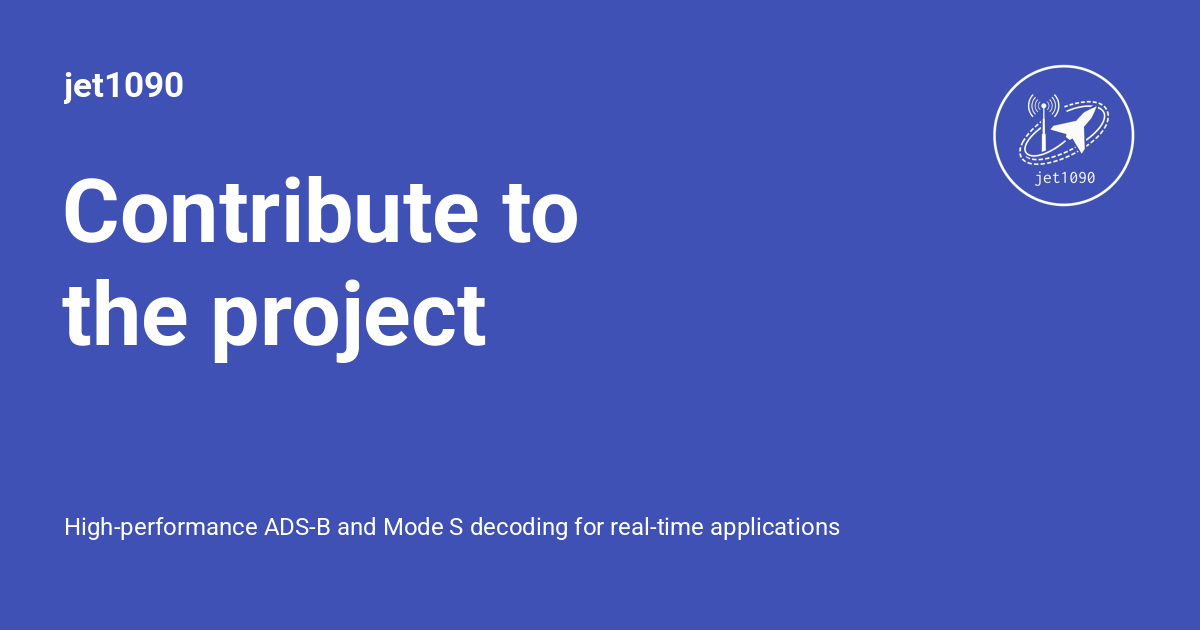
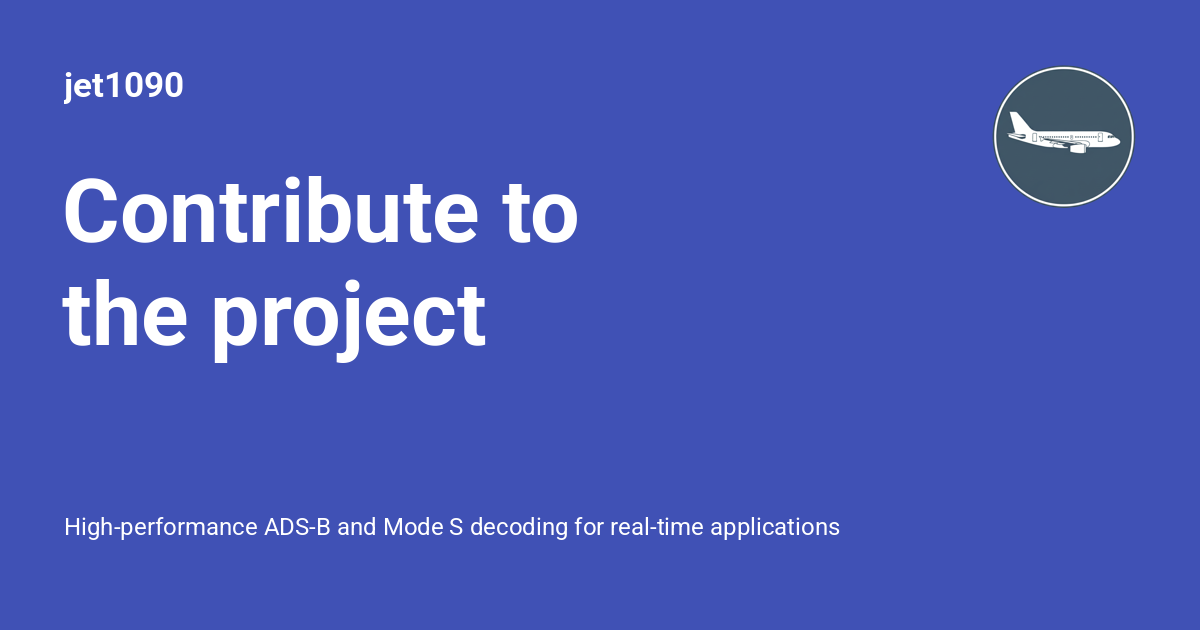
deploy: xoolive/jet1090@266443bfc49e63d0f7d9e73ddb97117b694de0b1

Changed region(s): [[0.8017, 0.0905, 0.9558, 0.3317]]

diff --git a/404.html b/404.html
@@ -85,7 +85,7 @@
   <nav class="md-header__inner md-grid" aria-label="Header">
     <a href="/jet1090/." title="jet1090" class="md-header__button md-logo" aria-label="jet1090" data-md-component="logo">
       
-  <img src="/jet1090/images/jet1090-logo.png" alt="logo">
+  <img src="/jet1090/images/favicon.png" alt="logo">
 
     </a>
     <label class="md-header__button md-icon" for="__drawer">
@@ -200,7 +200,7 @@
     <svg xmlns="http://www.w3.org/2000/svg" viewBox="0 0 512 512"><!--! Font Awesome Free 7.1.0 by @fontawesome - https://fontawesome.com License - https://fontawesome.com/license/free (Icons: CC BY 4.0, Fonts: SIL OFL 1.1, Code: MIT License) Copyright 2025 Fonticons, Inc.--><path d="M173.9 397.4c0 2-2.3 3.6-5.2 3.6-3.3.3-5.6-1.3-5.6-3.6 0-2 2.3-3.6 5.2-3.6 3-.3 5.6 1.3 5.6 3.6m-31.1-4.5c-.7 2 1.3 4.3 4.3 4.9 2.6 1 5.6 0 6.2-2s-1.3-4.3-4.3-5.2c-2.6-.7-5.5.3-6.2 2.3m44.2-1.7c-2.9.7-4.9 2.6-4.6 4.9.3 2 2.9 3.3 5.9 2.6 2.9-.7 4.9-2.6 4.6-4.6-.3-1.9-3-3.2-5.9-2.9M252.8 8C114.1 8 8 113.3 8 252c0 110.9 69.8 205.8 169.5 239.2 12.8 2.3 17.3-5.6 17.3-12.1 0-6.2-.3-40.4-.3-61.4 0 0-70 15-84.7-29.8 0 0-11.4-29.1-27.8-36.6 0 0-22.9-15.7 1.6-15.4 0 0 24.9 2 38.6 25.8 21.9 38.6 58.6 27.5 72.9 20.9 2.3-16 8.8-27.1 16-33.7-55.9-6.2-112.3-14.3-112.3-110.5 0-27.5 7.6-41.3 23.6-58.9-2.6-6.5-11.1-33.3 2.6-67.9 20.9-6.5 69 27 69 27 20-5.6 41.5-8.5 62.8-8.5s42.8 2.9 62.8 8.5c0 0 48.1-33.6 69-27 13.7 34.7 5.2 61.4 2.6 67.9 16 17.7 25.8 31.5 25.8 58.9 0 96.5-58.9 104.2-114.8 110.5 9.2 7.9 17 22.9 17 46.4 0 33.7-.3 75.4-.3 83.6 0 6.5 4.6 14.4 17.3 12.1C436.2 457.8 504 362.9 504 252 504 113.3 391.5 8 252.8 8M105.2 352.9c-1.3 1-1 3.3.7 5.2 1.6 1.6 3.9 2.3 5.2 1 1.3-1 1-3.3-.7-5.2-1.6-1.6-3.9-2.3-5.2-1m-10.8-8.1c-.7 1.3.3 2.9 2.3 3.9 1.6 1 3.6.7 4.3-.7.7-1.3-.3-2.9-2.3-3.9-2-.6-3.6-.3-4.3.7m32.4 35.6c-1.6 1.3-1 4.3 1.3 6.2 2.3 2.3 5.2 2.6 6.5 1 1.3-1.3.7-4.3-1.3-6.2-2.2-2.3-5.2-2.6-6.5-1m-11.4-14.7c-1.6 1-1.6 3.6 0 5.9s4.3 3.3 5.6 2.3c1.6-1.3 1.6-3.9 0-6.2-1.4-2.3-4-3.3-5.6-2"/></svg>
   </div>
   <div class="md-source__repository">
-    xoolive/rs1090
+    xoolive/jet1090
   </div>
 </a>
       </div>
@@ -357,7 +357,7 @@
   <label class="md-nav__title" for="__drawer">
     <a href="/jet1090/." title="jet1090" class="md-nav__button md-logo" aria-label="jet1090" data-md-component="logo">
       
-  <img src="/jet1090/images/jet1090-logo.png" alt="logo">
+  <img src="/jet1090/images/favicon.png" alt="logo">
 
     </a>
     jet1090
@@ -370,7 +370,7 @@
     <svg xmlns="http://www.w3.org/2000/svg" viewBox="0 0 512 512"><!--! Font Awesome Free 7.1.0 by @fontawesome - https://fontawesome.com License - https://fontawesome.com/license/free (Icons: CC BY 4.0, Fonts: SIL OFL 1.1, Code: MIT License) Copyright 2025 Fonticons, Inc.--><path d="M173.9 397.4c0 2-2.3 3.6-5.2 3.6-3.3.3-5.6-1.3-5.6-3.6 0-2 2.3-3.6 5.2-3.6 3-.3 5.6 1.3 5.6 3.6m-31.1-4.5c-.7 2 1.3 4.3 4.3 4.9 2.6 1 5.6 0 6.2-2s-1.3-4.3-4.3-5.2c-2.6-.7-5.5.3-6.2 2.3m44.2-1.7c-2.9.7-4.9 2.6-4.6 4.9.3 2 2.9 3.3 5.9 2.6 2.9-.7 4.9-2.6 4.6-4.6-.3-1.9-3-3.2-5.9-2.9M252.8 8C114.1 8 8 113.3 8 252c0 110.9 69.8 205.8 169.5 239.2 12.8 2.3 17.3-5.6 17.3-12.1 0-6.2-.3-40.4-.3-61.4 0 0-70 15-84.7-29.8 0 0-11.4-29.1-27.8-36.6 0 0-22.9-15.7 1.6-15.4 0 0 24.9 2 38.6 25.8 21.9 38.6 58.6 27.5 72.9 20.9 2.3-16 8.8-27.1 16-33.7-55.9-6.2-112.3-14.3-112.3-110.5 0-27.5 7.6-41.3 23.6-58.9-2.6-6.5-11.1-33.3 2.6-67.9 20.9-6.5 69 27 69 27 20-5.6 41.5-8.5 62.8-8.5s42.8 2.9 62.8 8.5c0 0 48.1-33.6 69-27 13.7 34.7 5.2 61.4 2.6 67.9 16 17.7 25.8 31.5 25.8 58.9 0 96.5-58.9 104.2-114.8 110.5 9.2 7.9 17 22.9 17 46.4 0 33.7-.3 75.4-.3 83.6 0 6.5 4.6 14.4 17.3 12.1C436.2 457.8 504 362.9 504 252 504 113.3 391.5 8 252.8 8M105.2 352.9c-1.3 1-1 3.3.7 5.2 1.6 1.6 3.9 2.3 5.2 1 1.3-1 1-3.3-.7-5.2-1.6-1.6-3.9-2.3-5.2-1m-10.8-8.1c-.7 1.3.3 2.9 2.3 3.9 1.6 1 3.6.7 4.3-.7.7-1.3-.3-2.9-2.3-3.9-2-.6-3.6-.3-4.3.7m32.4 35.6c-1.6 1.3-1 4.3 1.3 6.2 2.3 2.3 5.2 2.6 6.5 1 1.3-1.3.7-4.3-1.3-6.2-2.2-2.3-5.2-2.6-6.5-1m-11.4-14.7c-1.6 1-1.6 3.6 0 5.9s4.3 3.3 5.6 2.3c1.6-1.3 1.6-3.9 0-6.2-1.4-2.3-4-3.3-5.6-2"/></svg>
   </div>
   <div class="md-source__repository">
-    xoolive/rs1090
+    xoolive/jet1090
   </div>
 </a>
     </div>

diff --git a/config/index.html b/config/index.html
@@ -109,7 +109,7 @@
   <nav class="md-header__inner md-grid" aria-label="Header">
     <a href=".." title="jet1090" class="md-header__button md-logo" aria-label="jet1090" data-md-component="logo">
       
-  <img src="../images/jet1090-logo.png" alt="logo">
+  <img src="../images/favicon.png" alt="logo">
 
     </a>
     <label class="md-header__button md-icon" for="__drawer">
@@ -224,7 +224,7 @@
     <svg xmlns="http://www.w3.org/2000/svg" viewBox="0 0 512 512"><!--! Font Awesome Free 7.1.0 by @fontawesome - https://fontawesome.com License - https://fontawesome.com/license/free (Icons: CC BY 4.0, Fonts: SIL OFL 1.1, Code: MIT License) Copyright 2025 Fonticons, Inc.--><path d="M173.9 397.4c0 2-2.3 3.6-5.2 3.6-3.3.3-5.6-1.3-5.6-3.6 0-2 2.3-3.6 5.2-3.6 3-.3 5.6 1.3 5.6 3.6m-31.1-4.5c-.7 2 1.3 4.3 4.3 4.9 2.6 1 5.6 0 6.2-2s-1.3-4.3-4.3-5.2c-2.6-.7-5.5.3-6.2 2.3m44.2-1.7c-2.9.7-4.9 2.6-4.6 4.9.3 2 2.9 3.3 5.9 2.6 2.9-.7 4.9-2.6 4.6-4.6-.3-1.9-3-3.2-5.9-2.9M252.8 8C114.1 8 8 113.3 8 252c0 110.9 69.8 205.8 169.5 239.2 12.8 2.3 17.3-5.6 17.3-12.1 0-6.2-.3-40.4-.3-61.4 0 0-70 15-84.7-29.8 0 0-11.4-29.1-27.8-36.6 0 0-22.9-15.7 1.6-15.4 0 0 24.9 2 38.6 25.8 21.9 38.6 58.6 27.5 72.9 20.9 2.3-16 8.8-27.1 16-33.7-55.9-6.2-112.3-14.3-112.3-110.5 0-27.5 7.6-41.3 23.6-58.9-2.6-6.5-11.1-33.3 2.6-67.9 20.9-6.5 69 27 69 27 20-5.6 41.5-8.5 62.8-8.5s42.8 2.9 62.8 8.5c0 0 48.1-33.6 69-27 13.7 34.7 5.2 61.4 2.6 67.9 16 17.7 25.8 31.5 25.8 58.9 0 96.5-58.9 104.2-114.8 110.5 9.2 7.9 17 22.9 17 46.4 0 33.7-.3 75.4-.3 83.6 0 6.5 4.6 14.4 17.3 12.1C436.2 457.8 504 362.9 504 252 504 113.3 391.5 8 252.8 8M105.2 352.9c-1.3 1-1 3.3.7 5.2 1.6 1.6 3.9 2.3 5.2 1 1.3-1 1-3.3-.7-5.2-1.6-1.6-3.9-2.3-5.2-1m-10.8-8.1c-.7 1.3.3 2.9 2.3 3.9 1.6 1 3.6.7 4.3-.7.7-1.3-.3-2.9-2.3-3.9-2-.6-3.6-.3-4.3.7m32.4 35.6c-1.6 1.3-1 4.3 1.3 6.2 2.3 2.3 5.2 2.6 6.5 1 1.3-1.3.7-4.3-1.3-6.2-2.2-2.3-5.2-2.6-6.5-1m-11.4-14.7c-1.6 1-1.6 3.6 0 5.9s4.3 3.3 5.6 2.3c1.6-1.3 1.6-3.9 0-6.2-1.4-2.3-4-3.3-5.6-2"/></svg>
   </div>
   <div class="md-source__repository">
-    xoolive/rs1090
+    xoolive/jet1090
   </div>
 </a>
       </div>
@@ -383,7 +383,7 @@
   <label class="md-nav__title" for="__drawer">
     <a href=".." title="jet1090" class="md-nav__button md-logo" aria-label="jet1090" data-md-component="logo">
       
-  <img src="../images/jet1090-logo.png" alt="logo">
+  <img src="../images/favicon.png" alt="logo">
 
     </a>
     jet1090
@@ -396,7 +396,7 @@
     <svg xmlns="http://www.w3.org/2000/svg" viewBox="0 0 512 512"><!--! Font Awesome Free 7.1.0 by @fontawesome - https://fontawesome.com License - https://fontawesome.com/license/free (Icons: CC BY 4.0, Fonts: SIL OFL 1.1, Code: MIT License) Copyright 2025 Fonticons, Inc.--><path d="M173.9 397.4c0 2-2.3 3.6-5.2 3.6-3.3.3-5.6-1.3-5.6-3.6 0-2 2.3-3.6 5.2-3.6 3-.3 5.6 1.3 5.6 3.6m-31.1-4.5c-.7 2 1.3 4.3 4.3 4.9 2.6 1 5.6 0 6.2-2s-1.3-4.3-4.3-5.2c-2.6-.7-5.5.3-6.2 2.3m44.2-1.7c-2.9.7-4.9 2.6-4.6 4.9.3 2 2.9 3.3 5.9 2.6 2.9-.7 4.9-2.6 4.6-4.6-.3-1.9-3-3.2-5.9-2.9M252.8 8C114.1 8 8 113.3 8 252c0 110.9 69.8 205.8 169.5 239.2 12.8 2.3 17.3-5.6 17.3-12.1 0-6.2-.3-40.4-.3-61.4 0 0-70 15-84.7-29.8 0 0-11.4-29.1-27.8-36.6 0 0-22.9-15.7 1.6-15.4 0 0 24.9 2 38.6 25.8 21.9 38.6 58.6 27.5 72.9 20.9 2.3-16 8.8-27.1 16-33.7-55.9-6.2-112.3-14.3-112.3-110.5 0-27.5 7.6-41.3 23.6-58.9-2.6-6.5-11.1-33.3 2.6-67.9 20.9-6.5 69 27 69 27 20-5.6 41.5-8.5 62.8-8.5s42.8 2.9 62.8 8.5c0 0 48.1-33.6 69-27 13.7 34.7 5.2 61.4 2.6 67.9 16 17.7 25.8 31.5 25.8 58.9 0 96.5-58.9 104.2-114.8 110.5 9.2 7.9 17 22.9 17 46.4 0 33.7-.3 75.4-.3 83.6 0 6.5 4.6 14.4 17.3 12.1C436.2 457.8 504 362.9 504 252 504 113.3 391.5 8 252.8 8M105.2 352.9c-1.3 1-1 3.3.7 5.2 1.6 1.6 3.9 2.3 5.2 1 1.3-1 1-3.3-.7-5.2-1.6-1.6-3.9-2.3-5.2-1m-10.8-8.1c-.7 1.3.3 2.9 2.3 3.9 1.6 1 3.6.7 4.3-.7.7-1.3-.3-2.9-2.3-3.9-2-.6-3.6-.3-4.3.7m32.4 35.6c-1.6 1.3-1 4.3 1.3 6.2 2.3 2.3 5.2 2.6 6.5 1 1.3-1.3.7-4.3-1.3-6.2-2.2-2.3-5.2-2.6-6.5-1m-11.4-14.7c-1.6 1-1.6 3.6 0 5.9s4.3 3.3 5.6 2.3c1.6-1.3 1.6-3.9 0-6.2-1.4-2.3-4-3.3-5.6-2"/></svg>
   </div>
   <div class="md-source__repository">
-    xoolive/rs1090
+    xoolive/jet1090
   </div>
 </a>
     </div>

diff --git a/contribute/index.html b/contribute/index.html
@@ -107,7 +107,7 @@
   <nav class="md-header__inner md-grid" aria-label="Header">
     <a href=".." title="jet1090" class="md-header__button md-logo" aria-label="jet1090" data-md-component="logo">
       
-  <img src="../images/jet1090-logo.png" alt="logo">
+  <img src="../images/favicon.png" alt="logo">
 
     </a>
     <label class="md-header__button md-icon" for="__drawer">
@@ -222,7 +222,7 @@
     <svg xmlns="http://www.w3.org/2000/svg" viewBox="0 0 512 512"><!--! Font Awesome Free 7.1.0 by @fontawesome - https://fontawesome.com License - https://fontawesome.com/license/free (Icons: CC BY 4.0, Fonts: SIL OFL 1.1, Code: MIT License) Copyright 2025 Fonticons, Inc.--><path d="M173.9 397.4c0 2-2.3 3.6-5.2 3.6-3.3.3-5.6-1.3-5.6-3.6 0-2 2.3-3.6 5.2-3.6 3-.3 5.6 1.3 5.6 3.6m-31.1-4.5c-.7 2 1.3 4.3 4.3 4.9 2.6 1 5.6 0 6.2-2s-1.3-4.3-4.3-5.2c-2.6-.7-5.5.3-6.2 2.3m44.2-1.7c-2.9.7-4.9 2.6-4.6 4.9.3 2 2.9 3.3 5.9 2.6 2.9-.7 4.9-2.6 4.6-4.6-.3-1.9-3-3.2-5.9-2.9M252.8 8C114.1 8 8 113.3 8 252c0 110.9 69.8 205.8 169.5 239.2 12.8 2.3 17.3-5.6 17.3-12.1 0-6.2-.3-40.4-.3-61.4 0 0-70 15-84.7-29.8 0 0-11.4-29.1-27.8-36.6 0 0-22.9-15.7 1.6-15.4 0 0 24.9 2 38.6 25.8 21.9 38.6 58.6 27.5 72.9 20.9 2.3-16 8.8-27.1 16-33.7-55.9-6.2-112.3-14.3-112.3-110.5 0-27.5 7.6-41.3 23.6-58.9-2.6-6.5-11.1-33.3 2.6-67.9 20.9-6.5 69 27 69 27 20-5.6 41.5-8.5 62.8-8.5s42.8 2.9 62.8 8.5c0 0 48.1-33.6 69-27 13.7 34.7 5.2 61.4 2.6 67.9 16 17.7 25.8 31.5 25.8 58.9 0 96.5-58.9 104.2-114.8 110.5 9.2 7.9 17 22.9 17 46.4 0 33.7-.3 75.4-.3 83.6 0 6.5 4.6 14.4 17.3 12.1C436.2 457.8 504 362.9 504 252 504 113.3 391.5 8 252.8 8M105.2 352.9c-1.3 1-1 3.3.7 5.2 1.6 1.6 3.9 2.3 5.2 1 1.3-1 1-3.3-.7-5.2-1.6-1.6-3.9-2.3-5.2-1m-10.8-8.1c-.7 1.3.3 2.9 2.3 3.9 1.6 1 3.6.7 4.3-.7.7-1.3-.3-2.9-2.3-3.9-2-.6-3.6-.3-4.3.7m32.4 35.6c-1.6 1.3-1 4.3 1.3 6.2 2.3 2.3 5.2 2.6 6.5 1 1.3-1.3.7-4.3-1.3-6.2-2.2-2.3-5.2-2.6-6.5-1m-11.4-14.7c-1.6 1-1.6 3.6 0 5.9s4.3 3.3 5.6 2.3c1.6-1.3 1.6-3.9 0-6.2-1.4-2.3-4-3.3-5.6-2"/></svg>
   </div>
   <div class="md-source__repository">
-    xoolive/rs1090
+    xoolive/jet1090
   </div>
 </a>
       </div>
@@ -381,7 +381,7 @@
   <label class="md-nav__title" for="__drawer">
     <a href=".." title="jet1090" class="md-nav__button md-logo" aria-label="jet1090" data-md-component="logo">
       
-  <img src="../images/jet1090-logo.png" alt="logo">
+  <img src="../images/favicon.png" alt="logo">
 
     </a>
     jet1090
@@ -394,7 +394,7 @@
     <svg xmlns="http://www.w3.org/2000/svg" viewBox="0 0 512 512"><!--! Font Awesome Free 7.1.0 by @fontawesome - https://fontawesome.com License - https://fontawesome.com/license/free (Icons: CC BY 4.0, Fonts: SIL OFL 1.1, Code: MIT License) Copyright 2025 Fonticons, Inc.--><path d="M173.9 397.4c0 2-2.3 3.6-5.2 3.6-3.3.3-5.6-1.3-5.6-3.6 0-2 2.3-3.6 5.2-3.6 3-.3 5.6 1.3 5.6 3.6m-31.1-4.5c-.7 2 1.3 4.3 4.3 4.9 2.6 1 5.6 0 6.2-2s-1.3-4.3-4.3-5.2c-2.6-.7-5.5.3-6.2 2.3m44.2-1.7c-2.9.7-4.9 2.6-4.6 4.9.3 2 2.9 3.3 5.9 2.6 2.9-.7 4.9-2.6 4.6-4.6-.3-1.9-3-3.2-5.9-2.9M252.8 8C114.1 8 8 113.3 8 252c0 110.9 69.8 205.8 169.5 239.2 12.8 2.3 17.3-5.6 17.3-12.1 0-6.2-.3-40.4-.3-61.4 0 0-70 15-84.7-29.8 0 0-11.4-29.1-27.8-36.6 0 0-22.9-15.7 1.6-15.4 0 0 24.9 2 38.6 25.8 21.9 38.6 58.6 27.5 72.9 20.9 2.3-16 8.8-27.1 16-33.7-55.9-6.2-112.3-14.3-112.3-110.5 0-27.5 7.6-41.3 23.6-58.9-2.6-6.5-11.1-33.3 2.6-67.9 20.9-6.5 69 27 69 27 20-5.6 41.5-8.5 62.8-8.5s42.8 2.9 62.8 8.5c0 0 48.1-33.6 69-27 13.7 34.7 5.2 61.4 2.6 67.9 16 17.7 25.8 31.5 25.8 58.9 0 96.5-58.9 104.2-114.8 110.5 9.2 7.9 17 22.9 17 46.4 0 33.7-.3 75.4-.3 83.6 0 6.5 4.6 14.4 17.3 12.1C436.2 457.8 504 362.9 504 252 504 113.3 391.5 8 252.8 8M105.2 352.9c-1.3 1-1 3.3.7 5.2 1.6 1.6 3.9 2.3 5.2 1 1.3-1 1-3.3-.7-5.2-1.6-1.6-3.9-2.3-5.2-1m-10.8-8.1c-.7 1.3.3 2.9 2.3 3.9 1.6 1 3.6.7 4.3-.7.7-1.3-.3-2.9-2.3-3.9-2-.6-3.6-.3-4.3.7m32.4 35.6c-1.6 1.3-1 4.3 1.3 6.2 2.3 2.3 5.2 2.6 6.5 1 1.3-1.3.7-4.3-1.3-6.2-2.2-2.3-5.2-2.6-6.5-1m-11.4-14.7c-1.6 1-1.6 3.6 0 5.9s4.3 3.3 5.6 2.3c1.6-1.3 1.6-3.9 0-6.2-1.4-2.3-4-3.3-5.6-2"/></svg>
   </div>
   <div class="md-source__repository">
-    xoolive/rs1090
+    xoolive/jet1090
   </div>
 </a>
     </div>

diff --git a/install/index.html b/install/index.html
@@ -109,7 +109,7 @@
   <nav class="md-header__inner md-grid" aria-label="Header">
     <a href=".." title="jet1090" class="md-header__button md-logo" aria-label="jet1090" data-md-component="logo">
       
-  <img src="../images/jet1090-logo.png" alt="logo">
+  <img src="../images/favicon.png" alt="logo">
 
     </a>
     <label class="md-header__button md-icon" for="__drawer">
@@ -224,7 +224,7 @@
     <svg xmlns="http://www.w3.org/2000/svg" viewBox="0 0 512 512"><!--! Font Awesome Free 7.1.0 by @fontawesome - https://fontawesome.com License - https://fontawesome.com/license/free (Icons: CC BY 4.0, Fonts: SIL OFL 1.1, Code: MIT License) Copyright 2025 Fonticons, Inc.--><path d="M173.9 397.4c0 2-2.3 3.6-5.2 3.6-3.3.3-5.6-1.3-5.6-3.6 0-2 2.3-3.6 5.2-3.6 3-.3 5.6 1.3 5.6 3.6m-31.1-4.5c-.7 2 1.3 4.3 4.3 4.9 2.6 1 5.6 0 6.2-2s-1.3-4.3-4.3-5.2c-2.6-.7-5.5.3-6.2 2.3m44.2-1.7c-2.9.7-4.9 2.6-4.6 4.9.3 2 2.9 3.3 5.9 2.6 2.9-.7 4.9-2.6 4.6-4.6-.3-1.9-3-3.2-5.9-2.9M252.8 8C114.1 8 8 113.3 8 252c0 110.9 69.8 205.8 169.5 239.2 12.8 2.3 17.3-5.6 17.3-12.1 0-6.2-.3-40.4-.3-61.4 0 0-70 15-84.7-29.8 0 0-11.4-29.1-27.8-36.6 0 0-22.9-15.7 1.6-15.4 0 0 24.9 2 38.6 25.8 21.9 38.6 58.6 27.5 72.9 20.9 2.3-16 8.8-27.1 16-33.7-55.9-6.2-112.3-14.3-112.3-110.5 0-27.5 7.6-41.3 23.6-58.9-2.6-6.5-11.1-33.3 2.6-67.9 20.9-6.5 69 27 69 27 20-5.6 41.5-8.5 62.8-8.5s42.8 2.9 62.8 8.5c0 0 48.1-33.6 69-27 13.7 34.7 5.2 61.4 2.6 67.9 16 17.7 25.8 31.5 25.8 58.9 0 96.5-58.9 104.2-114.8 110.5 9.2 7.9 17 22.9 17 46.4 0 33.7-.3 75.4-.3 83.6 0 6.5 4.6 14.4 17.3 12.1C436.2 457.8 504 362.9 504 252 504 113.3 391.5 8 252.8 8M105.2 352.9c-1.3 1-1 3.3.7 5.2 1.6 1.6 3.9 2.3 5.2 1 1.3-1 1-3.3-.7-5.2-1.6-1.6-3.9-2.3-5.2-1m-10.8-8.1c-.7 1.3.3 2.9 2.3 3.9 1.6 1 3.6.7 4.3-.7.7-1.3-.3-2.9-2.3-3.9-2-.6-3.6-.3-4.3.7m32.4 35.6c-1.6 1.3-1 4.3 1.3 6.2 2.3 2.3 5.2 2.6 6.5 1 1.3-1.3.7-4.3-1.3-6.2-2.2-2.3-5.2-2.6-6.5-1m-11.4-14.7c-1.6 1-1.6 3.6 0 5.9s4.3 3.3 5.6 2.3c1.6-1.3 1.6-3.9 0-6.2-1.4-2.3-4-3.3-5.6-2"/></svg>
   </div>
   <div class="md-source__repository">
-    xoolive/rs1090
+    xoolive/jet1090
   </div>
 </a>
       </div>
@@ -383,7 +383,7 @@
   <label class="md-nav__title" for="__drawer">
     <a href=".." title="jet1090" class="md-nav__button md-logo" aria-label="jet1090" data-md-component="logo">
       
-  <img src="../images/jet1090-logo.png" alt="logo">
+  <img src="../images/favicon.png" alt="logo">
 
     </a>
     jet1090
@@ -396,7 +396,7 @@
     <svg xmlns="http://www.w3.org/2000/svg" viewBox="0 0 512 512"><!--! Font Awesome Free 7.1.0 by @fontawesome - https://fontawesome.com License - https://fontawesome.com/license/free (Icons: CC BY 4.0, Fonts: SIL OFL 1.1, Code: MIT License) Copyright 2025 Fonticons, Inc.--><path d="M173.9 397.4c0 2-2.3 3.6-5.2 3.6-3.3.3-5.6-1.3-5.6-3.6 0-2 2.3-3.6 5.2-3.6 3-.3 5.6 1.3 5.6 3.6m-31.1-4.5c-.7 2 1.3 4.3 4.3 4.9 2.6 1 5.6 0 6.2-2s-1.3-4.3-4.3-5.2c-2.6-.7-5.5.3-6.2 2.3m44.2-1.7c-2.9.7-4.9 2.6-4.6 4.9.3 2 2.9 3.3 5.9 2.6 2.9-.7 4.9-2.6 4.6-4.6-.3-1.9-3-3.2-5.9-2.9M252.8 8C114.1 8 8 113.3 8 252c0 110.9 69.8 205.8 169.5 239.2 12.8 2.3 17.3-5.6 17.3-12.1 0-6.2-.3-40.4-.3-61.4 0 0-70 15-84.7-29.8 0 0-11.4-29.1-27.8-36.6 0 0-22.9-15.7 1.6-15.4 0 0 24.9 2 38.6 25.8 21.9 38.6 58.6 27.5 72.9 20.9 2.3-16 8.8-27.1 16-33.7-55.9-6.2-112.3-14.3-112.3-110.5 0-27.5 7.6-41.3 23.6-58.9-2.6-6.5-11.1-33.3 2.6-67.9 20.9-6.5 69 27 69 27 20-5.6 41.5-8.5 62.8-8.5s42.8 2.9 62.8 8.5c0 0 48.1-33.6 69-27 13.7 34.7 5.2 61.4 2.6 67.9 16 17.7 25.8 31.5 25.8 58.9 0 96.5-58.9 104.2-114.8 110.5 9.2 7.9 17 22.9 17 46.4 0 33.7-.3 75.4-.3 83.6 0 6.5 4.6 14.4 17.3 12.1C436.2 457.8 504 362.9 504 252 504 113.3 391.5 8 252.8 8M105.2 352.9c-1.3 1-1 3.3.7 5.2 1.6 1.6 3.9 2.3 5.2 1 1.3-1 1-3.3-.7-5.2-1.6-1.6-3.9-2.3-5.2-1m-10.8-8.1c-.7 1.3.3 2.9 2.3 3.9 1.6 1 3.6.7 4.3-.7.7-1.3-.3-2.9-2.3-3.9-2-.6-3.6-.3-4.3.7m32.4 35.6c-1.6 1.3-1 4.3 1.3 6.2 2.3 2.3 5.2 2.6 6.5 1 1.3-1.3.7-4.3-1.3-6.2-2.2-2.3-5.2-2.6-6.5-1m-11.4-14.7c-1.6 1-1.6 3.6 0 5.9s4.3 3.3 5.6 2.3c1.6-1.3 1.6-3.9 0-6.2-1.4-2.3-4-3.3-5.6-2"/></svg>
   </div>
   <div class="md-source__repository">
-    xoolive/rs1090
+    xoolive/jet1090
   </div>
 </a>
     </div>

diff --git a/output/index.html b/output/index.html
@@ -109,7 +109,7 @@
   <nav class="md-header__inner md-grid" aria-label="Header">
     <a href=".." title="jet1090" class="md-header__button md-logo" aria-label="jet1090" data-md-component="logo">
       
-  <img src="../images/jet1090-logo.png" alt="logo">
+  <img src="../images/favicon.png" alt="logo">
 
     </a>
     <label class="md-header__button md-icon" for="__drawer">
@@ -224,7 +224,7 @@
     <svg xmlns="http://www.w3.org/2000/svg" viewBox="0 0 512 512"><!--! Font Awesome Free 7.1.0 by @fontawesome - https://fontawesome.com License - https://fontawesome.com/license/free (Icons: CC BY 4.0, Fonts: SIL OFL 1.1, Code: MIT License) Copyright 2025 Fonticons, Inc.--><path d="M173.9 397.4c0 2-2.3 3.6-5.2 3.6-3.3.3-5.6-1.3-5.6-3.6 0-2 2.3-3.6 5.2-3.6 3-.3 5.6 1.3 5.6 3.6m-31.1-4.5c-.7 2 1.3 4.3 4.3 4.9 2.6 1 5.6 0 6.2-2s-1.3-4.3-4.3-5.2c-2.6-.7-5.5.3-6.2 2.3m44.2-1.7c-2.9.7-4.9 2.6-4.6 4.9.3 2 2.9 3.3 5.9 2.6 2.9-.7 4.9-2.6 4.6-4.6-.3-1.9-3-3.2-5.9-2.9M252.8 8C114.1 8 8 113.3 8 252c0 110.9 69.8 205.8 169.5 239.2 12.8 2.3 17.3-5.6 17.3-12.1 0-6.2-.3-40.4-.3-61.4 0 0-70 15-84.7-29.8 0 0-11.4-29.1-27.8-36.6 0 0-22.9-15.7 1.6-15.4 0 0 24.9 2 38.6 25.8 21.9 38.6 58.6 27.5 72.9 20.9 2.3-16 8.8-27.1 16-33.7-55.9-6.2-112.3-14.3-112.3-110.5 0-27.5 7.6-41.3 23.6-58.9-2.6-6.5-11.1-33.3 2.6-67.9 20.9-6.5 69 27 69 27 20-5.6 41.5-8.5 62.8-8.5s42.8 2.9 62.8 8.5c0 0 48.1-33.6 69-27 13.7 34.7 5.2 61.4 2.6 67.9 16 17.7 25.8 31.5 25.8 58.9 0 96.5-58.9 104.2-114.8 110.5 9.2 7.9 17 22.9 17 46.4 0 33.7-.3 75.4-.3 83.6 0 6.5 4.6 14.4 17.3 12.1C436.2 457.8 504 362.9 504 252 504 113.3 391.5 8 252.8 8M105.2 352.9c-1.3 1-1 3.3.7 5.2 1.6 1.6 3.9 2.3 5.2 1 1.3-1 1-3.3-.7-5.2-1.6-1.6-3.9-2.3-5.2-1m-10.8-8.1c-.7 1.3.3 2.9 2.3 3.9 1.6 1 3.6.7 4.3-.7.7-1.3-.3-2.9-2.3-3.9-2-.6-3.6-.3-4.3.7m32.4 35.6c-1.6 1.3-1 4.3 1.3 6.2 2.3 2.3 5.2 2.6 6.5 1 1.3-1.3.7-4.3-1.3-6.2-2.2-2.3-5.2-2.6-6.5-1m-11.4-14.7c-1.6 1-1.6 3.6 0 5.9s4.3 3.3 5.6 2.3c1.6-1.3 1.6-3.9 0-6.2-1.4-2.3-4-3.3-5.6-2"/></svg>
   </div>
   <div class="md-source__repository">
-    xoolive/rs1090
+    xoolive/jet1090
   </div>
 </a>
       </div>
@@ -383,7 +383,7 @@
   <label class="md-nav__title" for="__drawer">
     <a href=".." title="jet1090" class="md-nav__button md-logo" aria-label="jet1090" data-md-component="logo">
       
-  <img src="../images/jet1090-logo.png" alt="logo">
+  <img src="../images/favicon.png" alt="logo">
 
     </a>
     jet1090
@@ -396,7 +396,7 @@
     <svg xmlns="http://www.w3.org/2000/svg" viewBox="0 0 512 512"><!--! Font Awesome Free 7.1.0 by @fontawesome - https://fontawesome.com License - https://fontawesome.com/license/free (Icons: CC BY 4.0, Fonts: SIL OFL 1.1, Code: MIT License) Copyright 2025 Fonticons, Inc.--><path d="M173.9 397.4c0 2-2.3 3.6-5.2 3.6-3.3.3-5.6-1.3-5.6-3.6 0-2 2.3-3.6 5.2-3.6 3-.3 5.6 1.3 5.6 3.6m-31.1-4.5c-.7 2 1.3 4.3 4.3 4.9 2.6 1 5.6 0 6.2-2s-1.3-4.3-4.3-5.2c-2.6-.7-5.5.3-6.2 2.3m44.2-1.7c-2.9.7-4.9 2.6-4.6 4.9.3 2 2.9 3.3 5.9 2.6 2.9-.7 4.9-2.6 4.6-4.6-.3-1.9-3-3.2-5.9-2.9M252.8 8C114.1 8 8 113.3 8 252c0 110.9 69.8 205.8 169.5 239.2 12.8 2.3 17.3-5.6 17.3-12.1 0-6.2-.3-40.4-.3-61.4 0 0-70 15-84.7-29.8 0 0-11.4-29.1-27.8-36.6 0 0-22.9-15.7 1.6-15.4 0 0 24.9 2 38.6 25.8 21.9 38.6 58.6 27.5 72.9 20.9 2.3-16 8.8-27.1 16-33.7-55.9-6.2-112.3-14.3-112.3-110.5 0-27.5 7.6-41.3 23.6-58.9-2.6-6.5-11.1-33.3 2.6-67.9 20.9-6.5 69 27 69 27 20-5.6 41.5-8.5 62.8-8.5s42.8 2.9 62.8 8.5c0 0 48.1-33.6 69-27 13.7 34.7 5.2 61.4 2.6 67.9 16 17.7 25.8 31.5 25.8 58.9 0 96.5-58.9 104.2-114.8 110.5 9.2 7.9 17 22.9 17 46.4 0 33.7-.3 75.4-.3 83.6 0 6.5 4.6 14.4 17.3 12.1C436.2 457.8 504 362.9 504 252 504 113.3 391.5 8 252.8 8M105.2 352.9c-1.3 1-1 3.3.7 5.2 1.6 1.6 3.9 2.3 5.2 1 1.3-1 1-3.3-.7-5.2-1.6-1.6-3.9-2.3-5.2-1m-10.8-8.1c-.7 1.3.3 2.9 2.3 3.9 1.6 1 3.6.7 4.3-.7.7-1.3-.3-2.9-2.3-3.9-2-.6-3.6-.3-4.3.7m32.4 35.6c-1.6 1.3-1 4.3 1.3 6.2 2.3 2.3 5.2 2.6 6.5 1 1.3-1.3.7-4.3-1.3-6.2-2.2-2.3-5.2-2.6-6.5-1m-11.4-14.7c-1.6 1-1.6 3.6 0 5.9s4.3 3.3 5.6 2.3c1.6-1.3 1.6-3.9 0-6.2-1.4-2.3-4-3.3-5.6-2"/></svg>
   </div>
   <div class="md-source__repository">
-    xoolive/rs1090
+    xoolive/jet1090
   </div>
 </a>
     </div>

diff --git a/sources/index.html b/sources/index.html
@@ -109,7 +109,7 @@
   <nav class="md-header__inner md-grid" aria-label="Header">
     <a href=".." title="jet1090" class="md-header__button md-logo" aria-label="jet1090" data-md-component="logo">
       
-  <img src="../images/jet1090-logo.png" alt="logo">
+  <img src="../images/favicon.png" alt="logo">
 
     </a>
     <label class="md-header__button md-icon" for="__drawer">
@@ -224,7 +224,7 @@
     <svg xmlns="http://www.w3.org/2000/svg" viewBox="0 0 512 512"><!--! Font Awesome Free 7.1.0 by @fontawesome - https://fontawesome.com License - https://fontawesome.com/license/free (Icons: CC BY 4.0, Fonts: SIL OFL 1.1, Code: MIT License) Copyright 2025 Fonticons, Inc.--><path d="M173.9 397.4c0 2-2.3 3.6-5.2 3.6-3.3.3-5.6-1.3-5.6-3.6 0-2 2.3-3.6 5.2-3.6 3-.3 5.6 1.3 5.6 3.6m-31.1-4.5c-.7 2 1.3 4.3 4.3 4.9 2.6 1 5.6 0 6.2-2s-1.3-4.3-4.3-5.2c-2.6-.7-5.5.3-6.2 2.3m44.2-1.7c-2.9.7-4.9 2.6-4.6 4.9.3 2 2.9 3.3 5.9 2.6 2.9-.7 4.9-2.6 4.6-4.6-.3-1.9-3-3.2-5.9-2.9M252.8 8C114.1 8 8 113.3 8 252c0 110.9 69.8 205.8 169.5 239.2 12.8 2.3 17.3-5.6 17.3-12.1 0-6.2-.3-40.4-.3-61.4 0 0-70 15-84.7-29.8 0 0-11.4-29.1-27.8-36.6 0 0-22.9-15.7 1.6-15.4 0 0 24.9 2 38.6 25.8 21.9 38.6 58.6 27.5 72.9 20.9 2.3-16 8.8-27.1 16-33.7-55.9-6.2-112.3-14.3-112.3-110.5 0-27.5 7.6-41.3 23.6-58.9-2.6-6.5-11.1-33.3 2.6-67.9 20.9-6.5 69 27 69 27 20-5.6 41.5-8.5 62.8-8.5s42.8 2.9 62.8 8.5c0 0 48.1-33.6 69-27 13.7 34.7 5.2 61.4 2.6 67.9 16 17.7 25.8 31.5 25.8 58.9 0 96.5-58.9 104.2-114.8 110.5 9.2 7.9 17 22.9 17 46.4 0 33.7-.3 75.4-.3 83.6 0 6.5 4.6 14.4 17.3 12.1C436.2 457.8 504 362.9 504 252 504 113.3 391.5 8 252.8 8M105.2 352.9c-1.3 1-1 3.3.7 5.2 1.6 1.6 3.9 2.3 5.2 1 1.3-1 1-3.3-.7-5.2-1.6-1.6-3.9-2.3-5.2-1m-10.8-8.1c-.7 1.3.3 2.9 2.3 3.9 1.6 1 3.6.7 4.3-.7.7-1.3-.3-2.9-2.3-3.9-2-.6-3.6-.3-4.3.7m32.4 35.6c-1.6 1.3-1 4.3 1.3 6.2 2.3 2.3 5.2 2.6 6.5 1 1.3-1.3.7-4.3-1.3-6.2-2.2-2.3-5.2-2.6-6.5-1m-11.4-14.7c-1.6 1-1.6 3.6 0 5.9s4.3 3.3 5.6 2.3c1.6-1.3 1.6-3.9 0-6.2-1.4-2.3-4-3.3-5.6-2"/></svg>
   </div>
   <div class="md-source__repository">
-    xoolive/rs1090
+    xoolive/jet1090
   </div>
 </a>
       </div>
@@ -383,7 +383,7 @@
   <label class="md-nav__title" for="__drawer">
     <a href=".." title="jet1090" class="md-nav__button md-logo" aria-label="jet1090" data-md-component="logo">
       
-  <img src="../images/jet1090-logo.png" alt="logo">
+  <img src="../images/favicon.png" alt="logo">
 
     </a>
     jet1090
@@ -396,7 +396,7 @@
     <svg xmlns="http://www.w3.org/2000/svg" viewBox="0 0 512 512"><!--! Font Awesome Free 7.1.0 by @fontawesome - https://fontawesome.com License - https://fontawesome.com/license/free (Icons: CC BY 4.0, Fonts: SIL OFL 1.1, Code: MIT License) Copyright 2025 Fonticons, Inc.--><path d="M173.9 397.4c0 2-2.3 3.6-5.2 3.6-3.3.3-5.6-1.3-5.6-3.6 0-2 2.3-3.6 5.2-3.6 3-.3 5.6 1.3 5.6 3.6m-31.1-4.5c-.7 2 1.3 4.3 4.3 4.9 2.6 1 5.6 0 6.2-2s-1.3-4.3-4.3-5.2c-2.6-.7-5.5.3-6.2 2.3m44.2-1.7c-2.9.7-4.9 2.6-4.6 4.9.3 2 2.9 3.3 5.9 2.6 2.9-.7 4.9-2.6 4.6-4.6-.3-1.9-3-3.2-5.9-2.9M252.8 8C114.1 8 8 113.3 8 252c0 110.9 69.8 205.8 169.5 239.2 12.8 2.3 17.3-5.6 17.3-12.1 0-6.2-.3-40.4-.3-61.4 0 0-70 15-84.7-29.8 0 0-11.4-29.1-27.8-36.6 0 0-22.9-15.7 1.6-15.4 0 0 24.9 2 38.6 25.8 21.9 38.6 58.6 27.5 72.9 20.9 2.3-16 8.8-27.1 16-33.7-55.9-6.2-112.3-14.3-112.3-110.5 0-27.5 7.6-41.3 23.6-58.9-2.6-6.5-11.1-33.3 2.6-67.9 20.9-6.5 69 27 69 27 20-5.6 41.5-8.5 62.8-8.5s42.8 2.9 62.8 8.5c0 0 48.1-33.6 69-27 13.7 34.7 5.2 61.4 2.6 67.9 16 17.7 25.8 31.5 25.8 58.9 0 96.5-58.9 104.2-114.8 110.5 9.2 7.9 17 22.9 17 46.4 0 33.7-.3 75.4-.3 83.6 0 6.5 4.6 14.4 17.3 12.1C436.2 457.8 504 362.9 504 252 504 113.3 391.5 8 252.8 8M105.2 352.9c-1.3 1-1 3.3.7 5.2 1.6 1.6 3.9 2.3 5.2 1 1.3-1 1-3.3-.7-5.2-1.6-1.6-3.9-2.3-5.2-1m-10.8-8.1c-.7 1.3.3 2.9 2.3 3.9 1.6 1 3.6.7 4.3-.7.7-1.3-.3-2.9-2.3-3.9-2-.6-3.6-.3-4.3.7m32.4 35.6c-1.6 1.3-1 4.3 1.3 6.2 2.3 2.3 5.2 2.6 6.5 1 1.3-1.3.7-4.3-1.3-6.2-2.2-2.3-5.2-2.6-6.5-1m-11.4-14.7c-1.6 1-1.6 3.6 0 5.9s4.3 3.3 5.6 2.3c1.6-1.3 1.6-3.9 0-6.2-1.4-2.3-4-3.3-5.6-2"/></svg>
   </div>
   <div class="md-source__repository">
-    xoolive/rs1090
+    xoolive/jet1090
   </div>
 </a>
     </div>

diff --git a/index.html b/index.html
@@ -107,7 +107,7 @@
   <nav class="md-header__inner md-grid" aria-label="Header">
     <a href="." title="jet1090" class="md-header__button md-logo" aria-label="jet1090" data-md-component="logo">
       
-  <img src="images/jet1090-logo.png" alt="logo">
+  <img src="images/favicon.png" alt="logo">
 
     </a>
     <label class="md-header__button md-icon" for="__drawer">
@@ -222,7 +222,7 @@
     <svg xmlns="http://www.w3.org/2000/svg" viewBox="0 0 512 512"><!--! Font Awesome Free 7.1.0 by @fontawesome - https://fontawesome.com License - https://fontawesome.com/license/free (Icons: CC BY 4.0, Fonts: SIL OFL 1.1, Code: MIT License) Copyright 2025 Fonticons, Inc.--><path d="M173.9 397.4c0 2-2.3 3.6-5.2 3.6-3.3.3-5.6-1.3-5.6-3.6 0-2 2.3-3.6 5.2-3.6 3-.3 5.6 1.3 5.6 3.6m-31.1-4.5c-.7 2 1.3 4.3 4.3 4.9 2.6 1 5.6 0 6.2-2s-1.3-4.3-4.3-5.2c-2.6-.7-5.5.3-6.2 2.3m44.2-1.7c-2.9.7-4.9 2.6-4.6 4.9.3 2 2.9 3.3 5.9 2.6 2.9-.7 4.9-2.6 4.6-4.6-.3-1.9-3-3.2-5.9-2.9M252.8 8C114.1 8 8 113.3 8 252c0 110.9 69.8 205.8 169.5 239.2 12.8 2.3 17.3-5.6 17.3-12.1 0-6.2-.3-40.4-.3-61.4 0 0-70 15-84.7-29.8 0 0-11.4-29.1-27.8-36.6 0 0-22.9-15.7 1.6-15.4 0 0 24.9 2 38.6 25.8 21.9 38.6 58.6 27.5 72.9 20.9 2.3-16 8.8-27.1 16-33.7-55.9-6.2-112.3-14.3-112.3-110.5 0-27.5 7.6-41.3 23.6-58.9-2.6-6.5-11.1-33.3 2.6-67.9 20.9-6.5 69 27 69 27 20-5.6 41.5-8.5 62.8-8.5s42.8 2.9 62.8 8.5c0 0 48.1-33.6 69-27 13.7 34.7 5.2 61.4 2.6 67.9 16 17.7 25.8 31.5 25.8 58.9 0 96.5-58.9 104.2-114.8 110.5 9.2 7.9 17 22.9 17 46.4 0 33.7-.3 75.4-.3 83.6 0 6.5 4.6 14.4 17.3 12.1C436.2 457.8 504 362.9 504 252 504 113.3 391.5 8 252.8 8M105.2 352.9c-1.3 1-1 3.3.7 5.2 1.6 1.6 3.9 2.3 5.2 1 1.3-1 1-3.3-.7-5.2-1.6-1.6-3.9-2.3-5.2-1m-10.8-8.1c-.7 1.3.3 2.9 2.3 3.9 1.6 1 3.6.7 4.3-.7.7-1.3-.3-2.9-2.3-3.9-2-.6-3.6-.3-4.3.7m32.4 35.6c-1.6 1.3-1 4.3 1.3 6.2 2.3 2.3 5.2 2.6 6.5 1 1.3-1.3.7-4.3-1.3-6.2-2.2-2.3-5.2-2.6-6.5-1m-11.4-14.7c-1.6 1-1.6 3.6 0 5.9s4.3 3.3 5.6 2.3c1.6-1.3 1.6-3.9 0-6.2-1.4-2.3-4-3.3-5.6-2"/></svg>
   </div>
   <div class="md-source__repository">
-    xoolive/rs1090
+    xoolive/jet1090
   </div>
 </a>
       </div>
@@ -381,7 +381,7 @@
   <label class="md-nav__title" for="__drawer">
     <a href="." title="jet1090" class="md-nav__button md-logo" aria-label="jet1090" data-md-component="logo">
       
-  <img src="images/jet1090-logo.png" alt="logo">
+  <img src="images/favicon.png" alt="logo">
 
     </a>
     jet1090
@@ -394,7 +394,7 @@
     <svg xmlns="http://www.w3.org/2000/svg" viewBox="0 0 512 512"><!--! Font Awesome Free 7.1.0 by @fontawesome - https://fontawesome.com License - https://fontawesome.com/license/free (Icons: CC BY 4.0, Fonts: SIL OFL 1.1, Code: MIT License) Copyright 2025 Fonticons, Inc.--><path d="M173.9 397.4c0 2-2.3 3.6-5.2 3.6-3.3.3-5.6-1.3-5.6-3.6 0-2 2.3-3.6 5.2-3.6 3-.3 5.6 1.3 5.6 3.6m-31.1-4.5c-.7 2 1.3 4.3 4.3 4.9 2.6 1 5.6 0 6.2-2s-1.3-4.3-4.3-5.2c-2.6-.7-5.5.3-6.2 2.3m44.2-1.7c-2.9.7-4.9 2.6-4.6 4.9.3 2 2.9 3.3 5.9 2.6 2.9-.7 4.9-2.6 4.6-4.6-.3-1.9-3-3.2-5.9-2.9M252.8 8C114.1 8 8 113.3 8 252c0 110.9 69.8 205.8 169.5 239.2 12.8 2.3 17.3-5.6 17.3-12.1 0-6.2-.3-40.4-.3-61.4 0 0-70 15-84.7-29.8 0 0-11.4-29.1-27.8-36.6 0 0-22.9-15.7 1.6-15.4 0 0 24.9 2 38.6 25.8 21.9 38.6 58.6 27.5 72.9 20.9 2.3-16 8.8-27.1 16-33.7-55.9-6.2-112.3-14.3-112.3-110.5 0-27.5 7.6-41.3 23.6-58.9-2.6-6.5-11.1-33.3 2.6-67.9 20.9-6.5 69 27 69 27 20-5.6 41.5-8.5 62.8-8.5s42.8 2.9 62.8 8.5c0 0 48.1-33.6 69-27 13.7 34.7 5.2 61.4 2.6 67.9 16 17.7 25.8 31.5 25.8 58.9 0 96.5-58.9 104.2-114.8 110.5 9.2 7.9 17 22.9 17 46.4 0 33.7-.3 75.4-.3 83.6 0 6.5 4.6 14.4 17.3 12.1C436.2 457.8 504 362.9 504 252 504 113.3 391.5 8 252.8 8M105.2 352.9c-1.3 1-1 3.3.7 5.2 1.6 1.6 3.9 2.3 5.2 1 1.3-1 1-3.3-.7-5.2-1.6-1.6-3.9-2.3-5.2-1m-10.8-8.1c-.7 1.3.3 2.9 2.3 3.9 1.6 1 3.6.7 4.3-.7.7-1.3-.3-2.9-2.3-3.9-2-.6-3.6-.3-4.3.7m32.4 35.6c-1.6 1.3-1 4.3 1.3 6.2 2.3 2.3 5.2 2.6 6.5 1 1.3-1.3.7-4.3-1.3-6.2-2.2-2.3-5.2-2.6-6.5-1m-11.4-14.7c-1.6 1-1.6 3.6 0 5.9s4.3 3.3 5.6 2.3c1.6-1.3 1.6-3.9 0-6.2-1.4-2.3-4-3.3-5.6-2"/></svg>
   </div>
   <div class="md-source__repository">
-    xoolive/rs1090
+    xoolive/jet1090
   </div>
 </a>
     </div>
